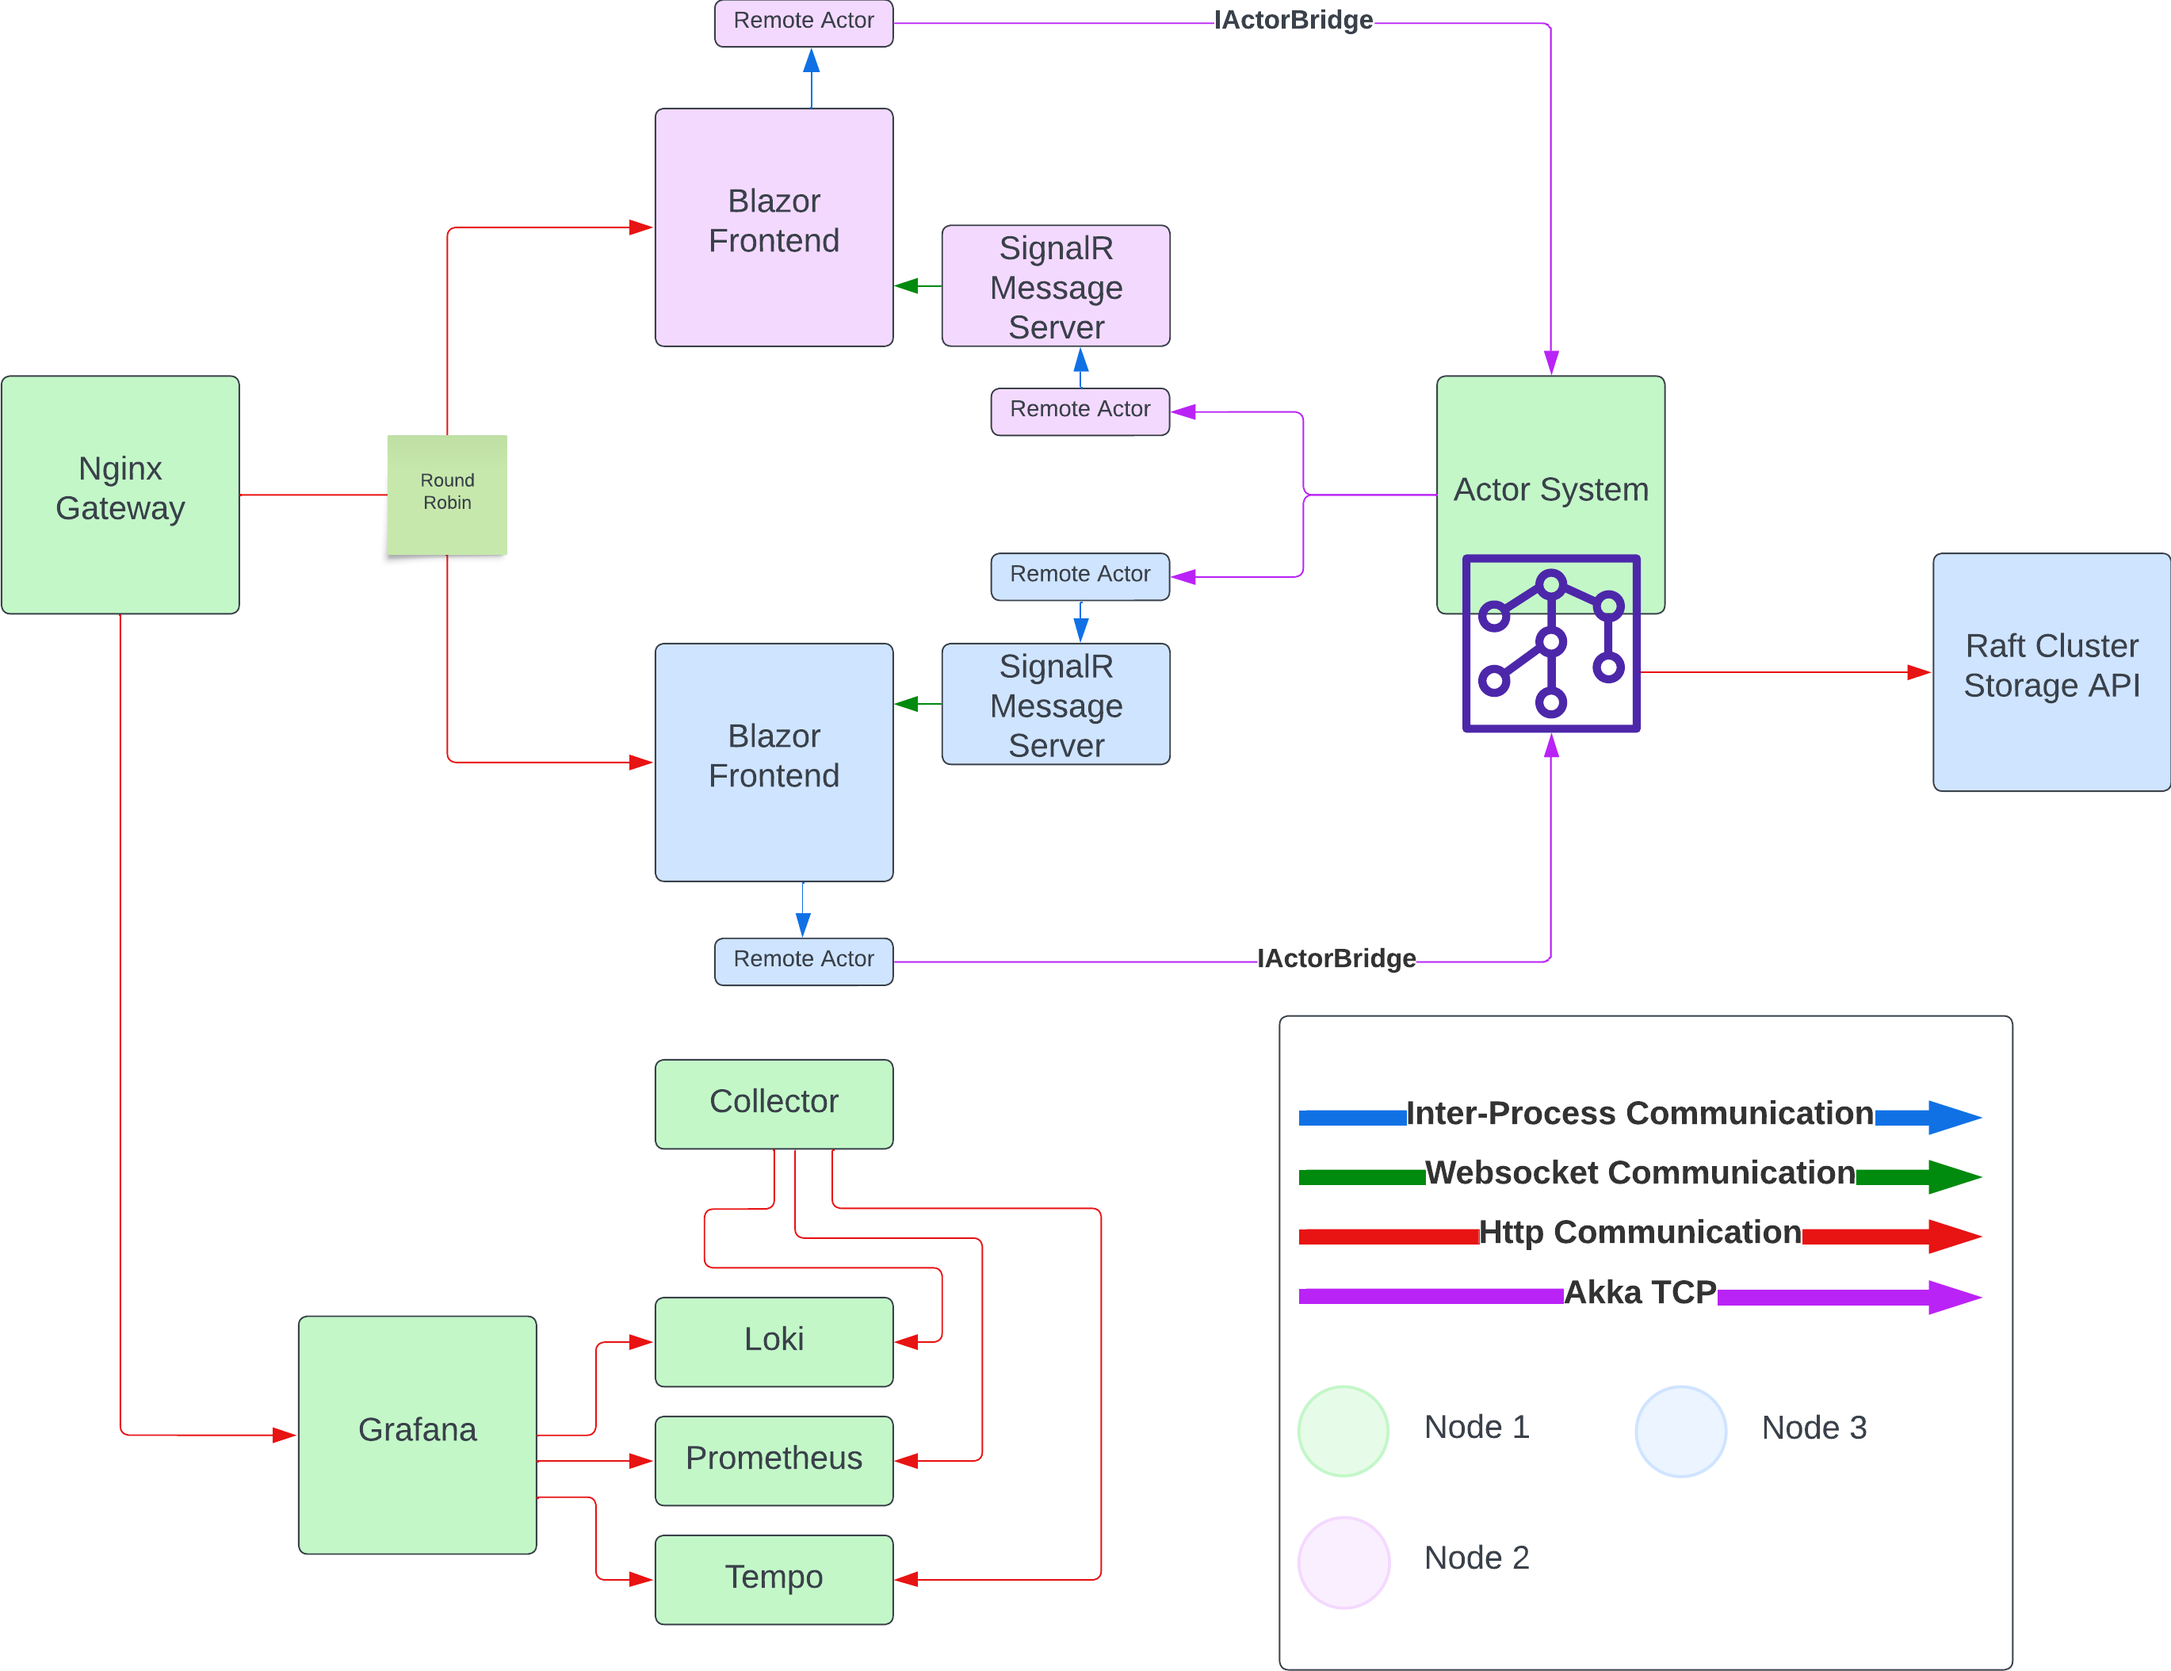
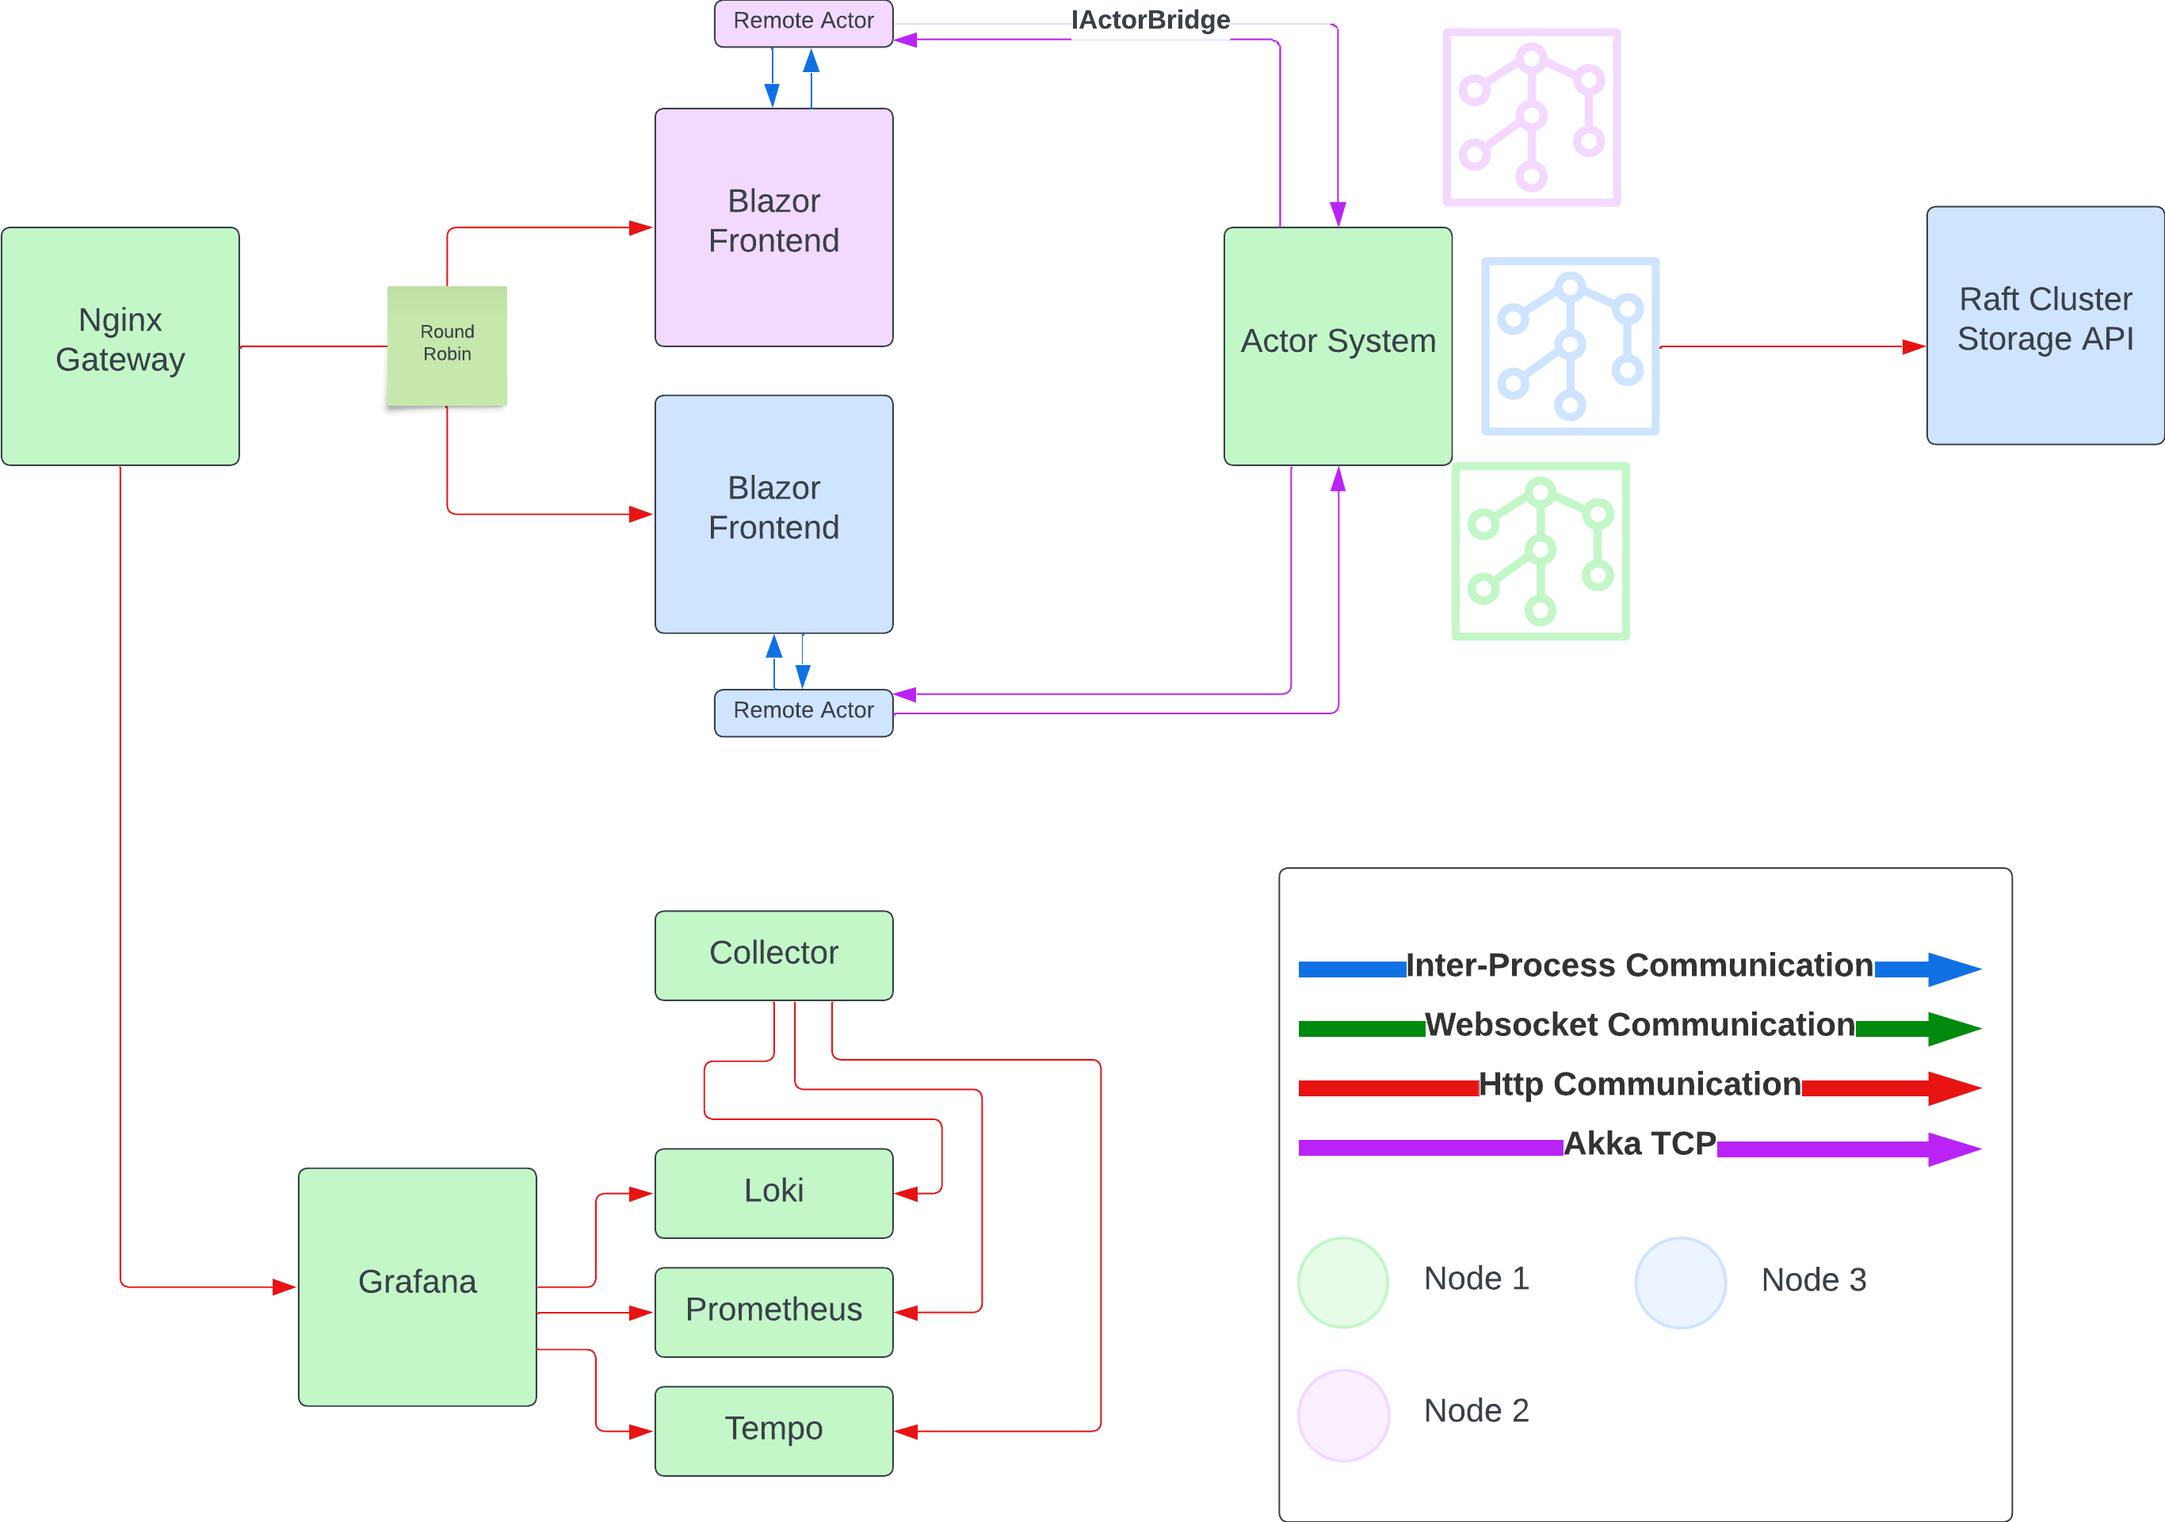
Update actor communication method in README and PLAN.md

diff --git a/README.md b/README.md
@@ -2,7 +2,7 @@
 
 ## Description
 
-This project is a distributed version of the classic game Asteroids. It is implemented using the actor model with Akka.NET. The game is played in a web browser and the game state is managed by a cluster of Akka.NET actors. The players interact with the game through a Blazor front end that communicates with the actor system through a SignalR message server. The game state is saved to a Raft cluster storage API.
+This project is a distributed version of the classic game Asteroids. It is implemented using the actor model with Akka.NET. The game is played in a web browser and the game state is managed by a cluster of Akka.NET actors. The players interact with the game through a Blazor front end that communicates with the actor system through a remote actor. The game state is saved to a Raft cluster storage API.
 
 ## More Information
 

diff --git a/docs/PLAN.md b/docs/PLAN.md
@@ -28,24 +28,14 @@
 #### Responsibilities
 
 - Provide an interface for a user to play/interact with the game
+- has an actor that will communicate with the actor system
+- when actor receives a message, it will update the UI through events
 
 #### Redundancy Strategy
 
 - Two statless instances of the Blazor front end
 - If one goes down, user will be redirected to the other instance
 - Docker health checks to restart the container if it goes down
-
-### SignalR Message Server
-
-#### Responsibilities
-
-- Provide real-time updates from the Actor System to the Blazor Front End
-
-#### Redundancy Strategy
-
-- Docker health checks to restart the container if it goes down
-- Two instances of the SignalR Message Server
-- Consitent hashing to distribute the load behind the Nginx Gateway
 
 ### Actor System
 
